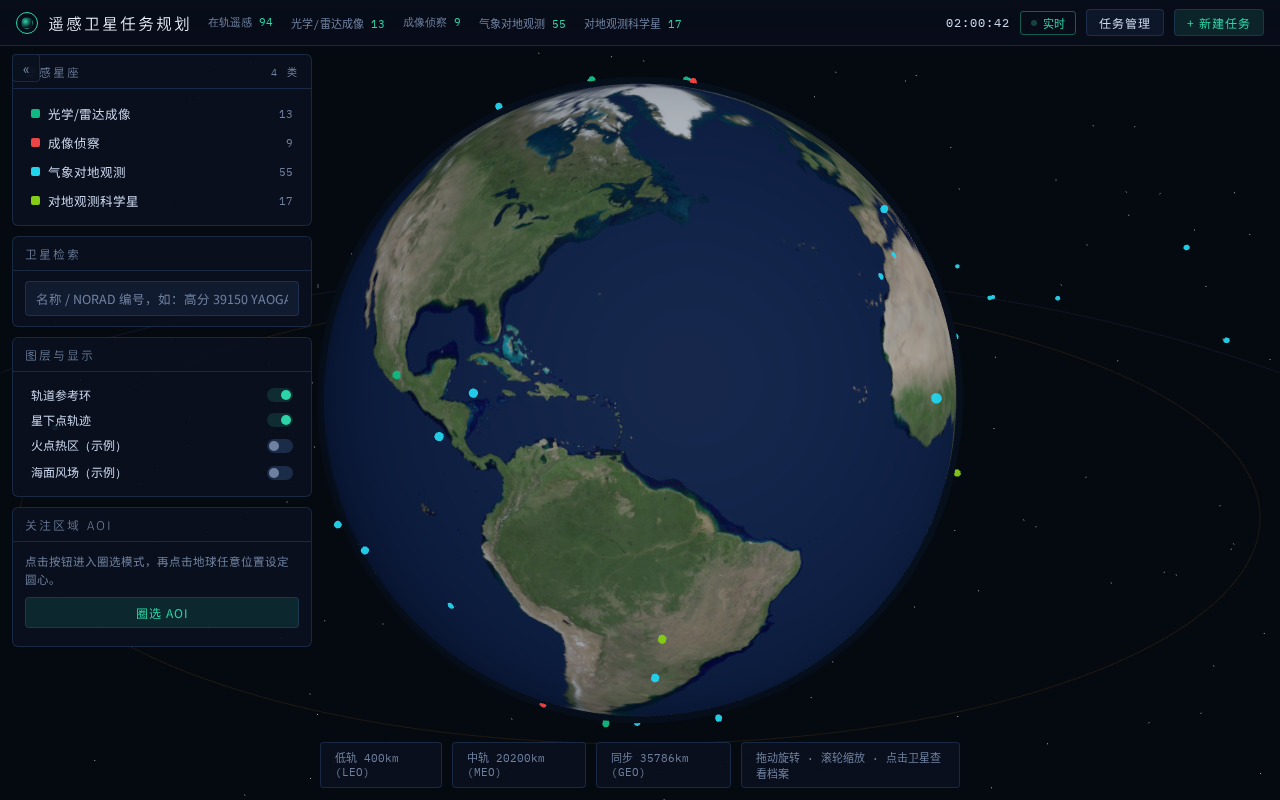
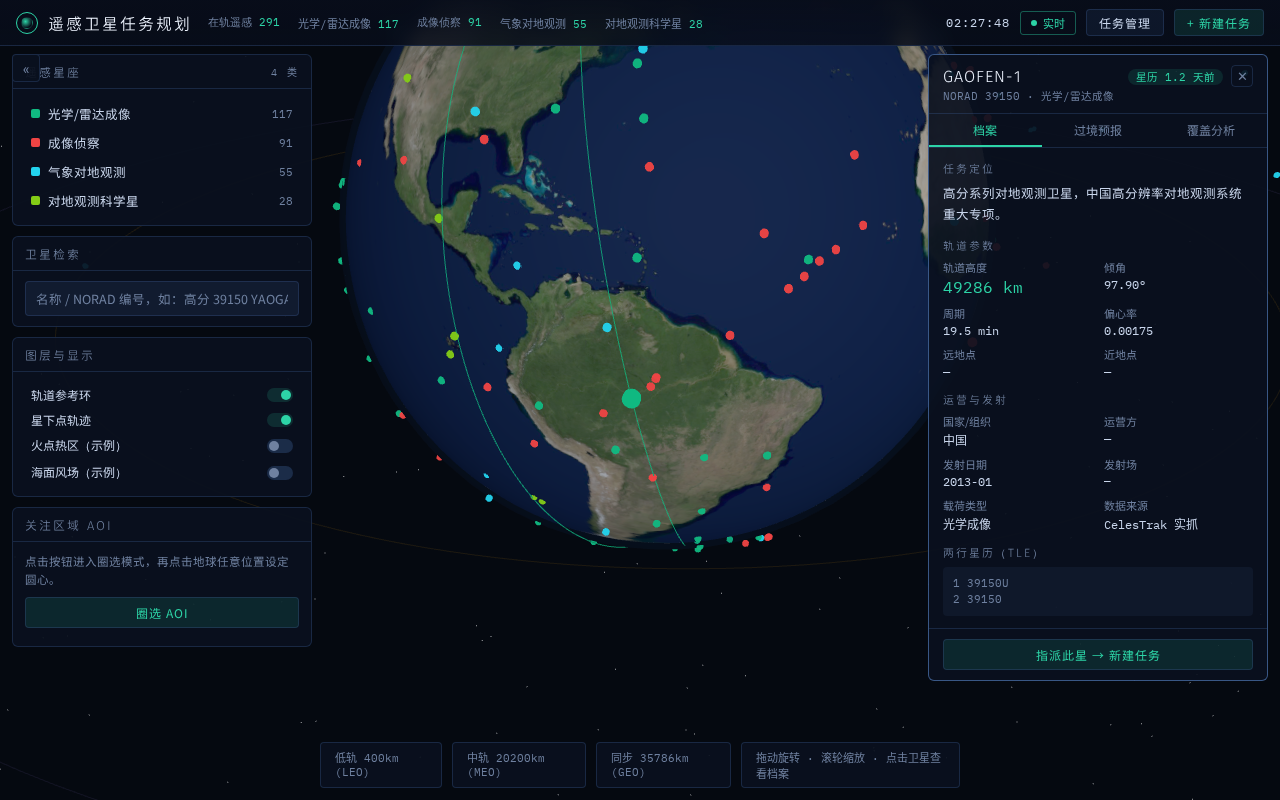
修复轨道高度计算公式(μ/n²三次方根)并重算全库291颗卫星参数

diff --git a/client/src/components/SatelliteDetail.jsx b/client/src/components/SatelliteDetail.jsx
@@ -91,13 +91,13 @@ function DossierTab({ sat, meta }) {
         <div className="kv"><div className="k">数据来源</div><div className="v">{sat.source === "celestrak" ? "CelesTrak 实抓" : sat.source ?? "—"}</div></div>
       </div>
 
-      <div className="section-label">两行星历（TLE）</div>
+      <div className="section-label">轨道根数（历元数据）</div>
       <div style={{
         fontFamily: "var(--font-mono)", fontSize: 10.5, lineHeight: 1.6,
         background: "rgba(20,30,52,0.6)", padding: "8px 10px", borderRadius: 4,
         color: "var(--text-dim)", wordBreak: "break-all",
       }}>
-        {sat.tle1}<br />{sat.tle2}
+        {sat.tle1 && sat.tle1.length > 40 ? <>TLE: {sat.tle1}<br />{sat.tle2}</> : <>数据源: CelesTrak OMM（SGP4 直接传播）<br />历元: {sat.epoch?.slice(0, 19)?.replace("T", " ")} UTC</>}
       </div>
     </>
   );
